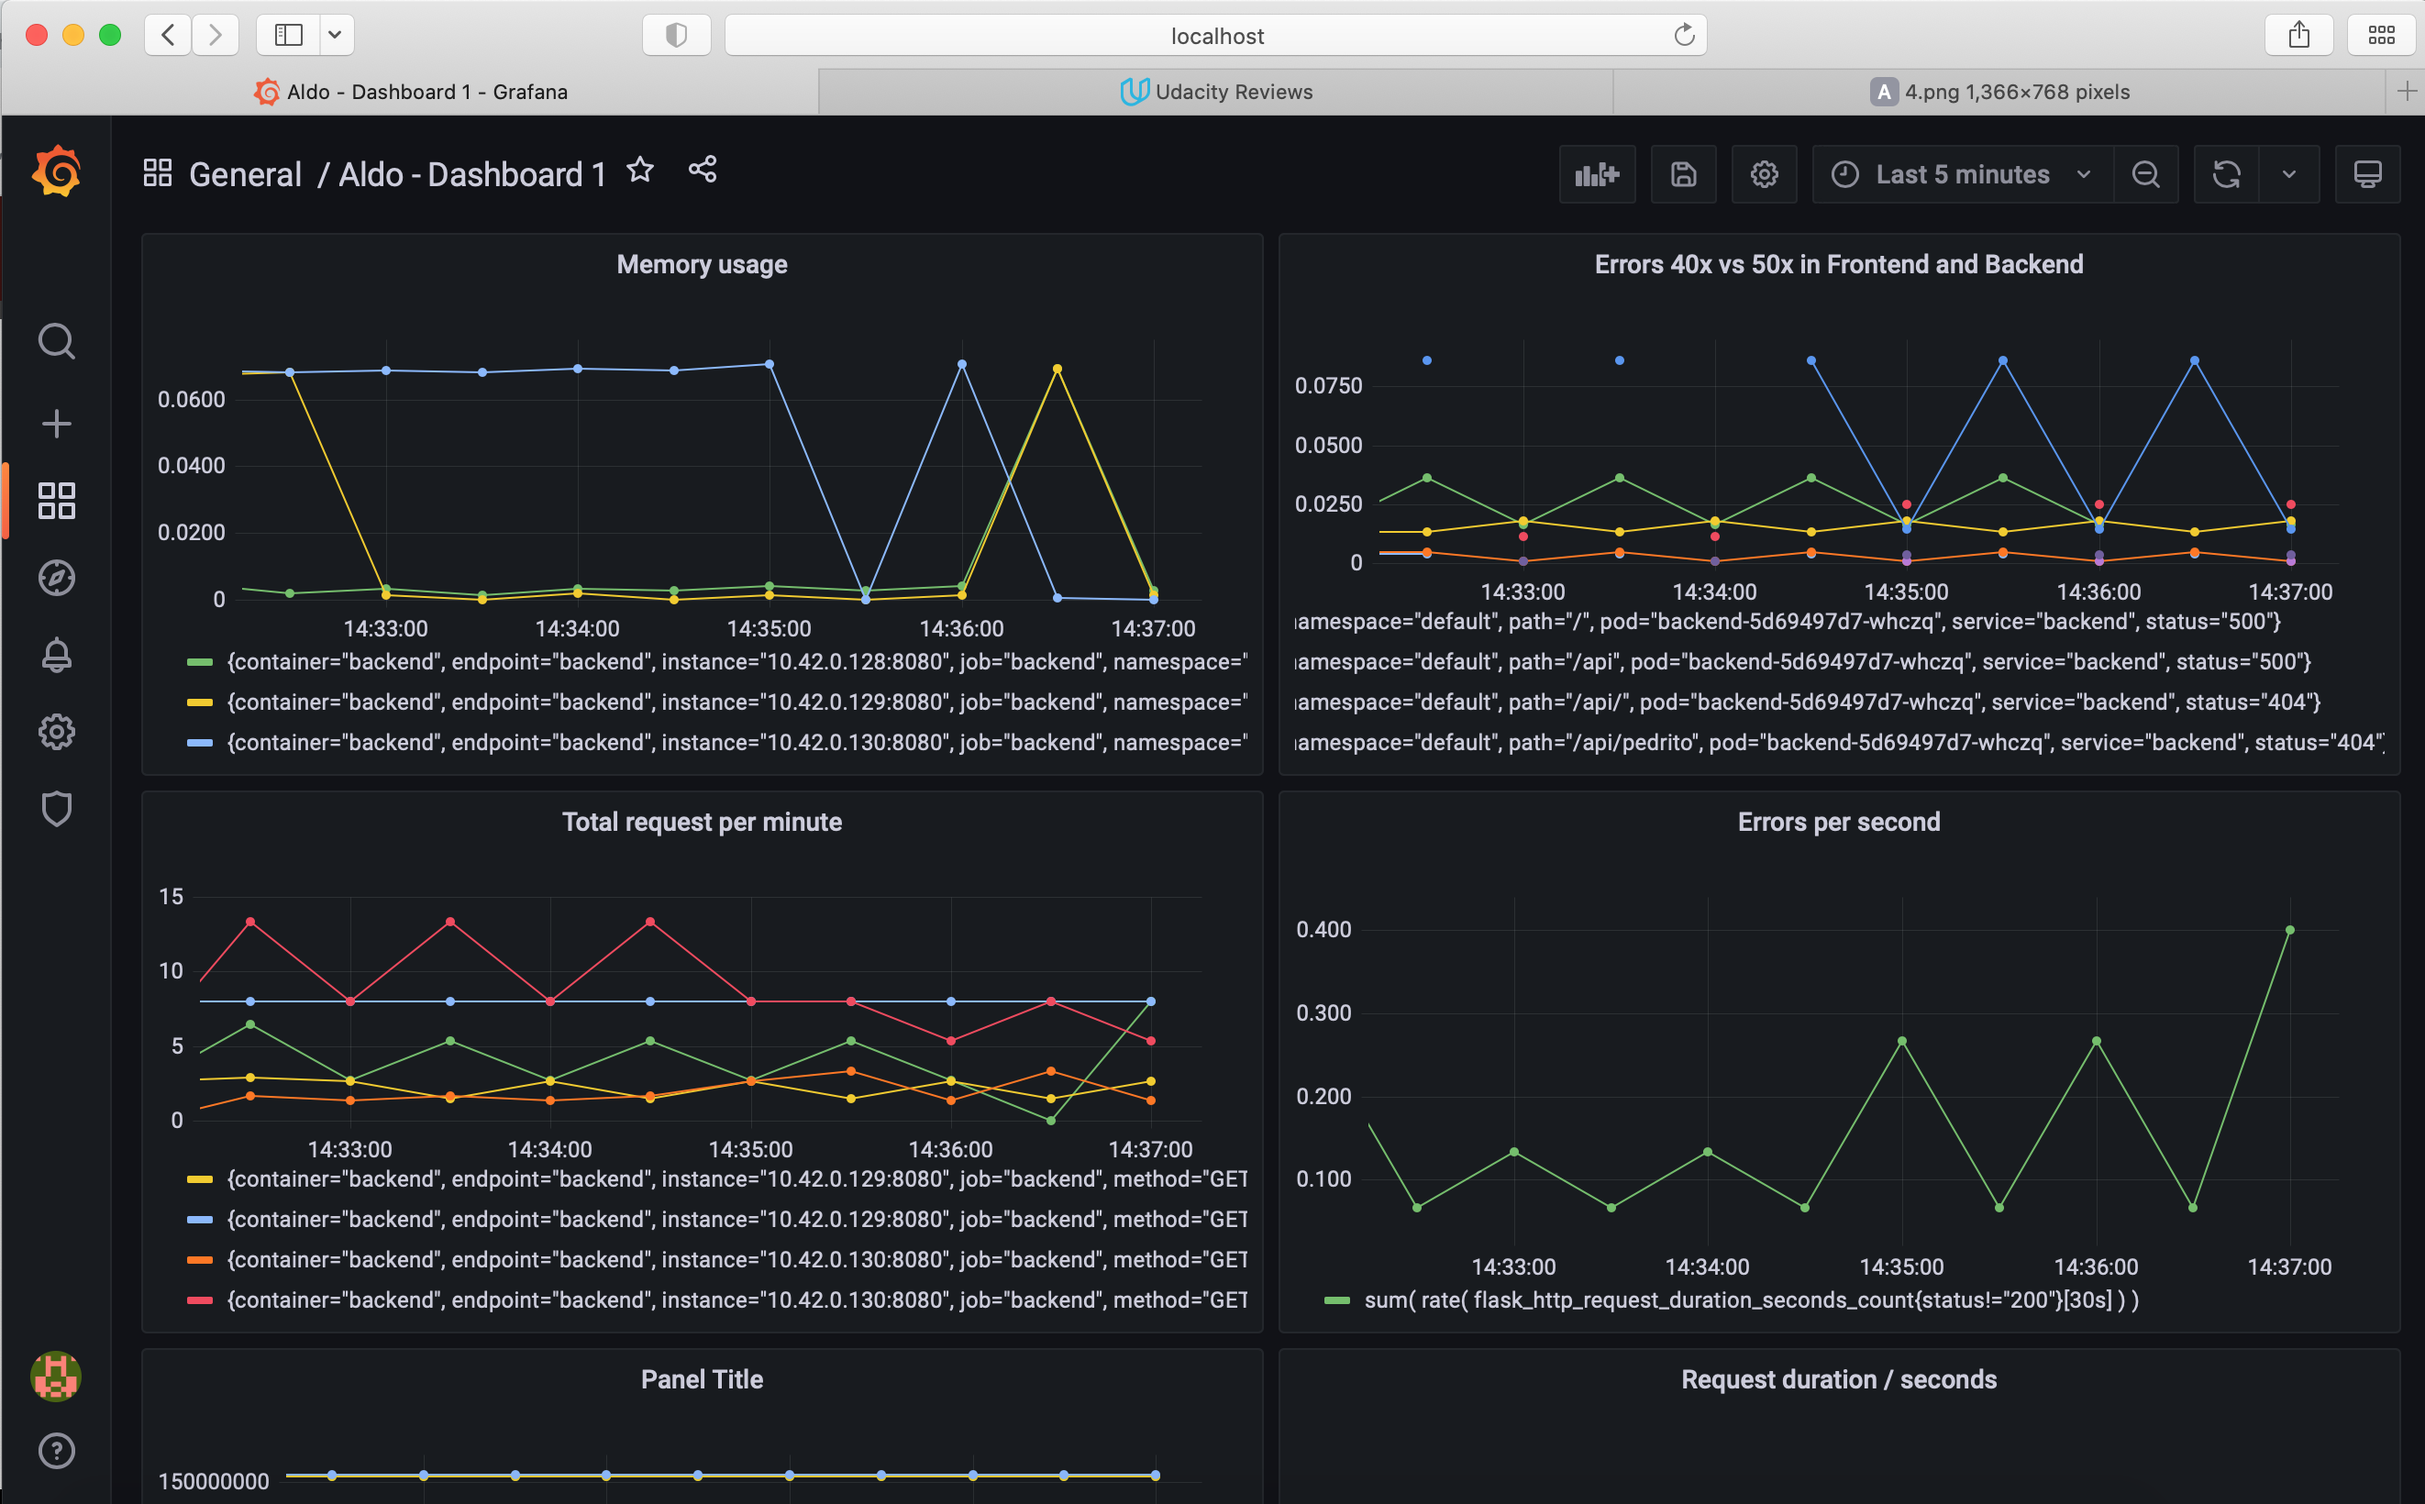
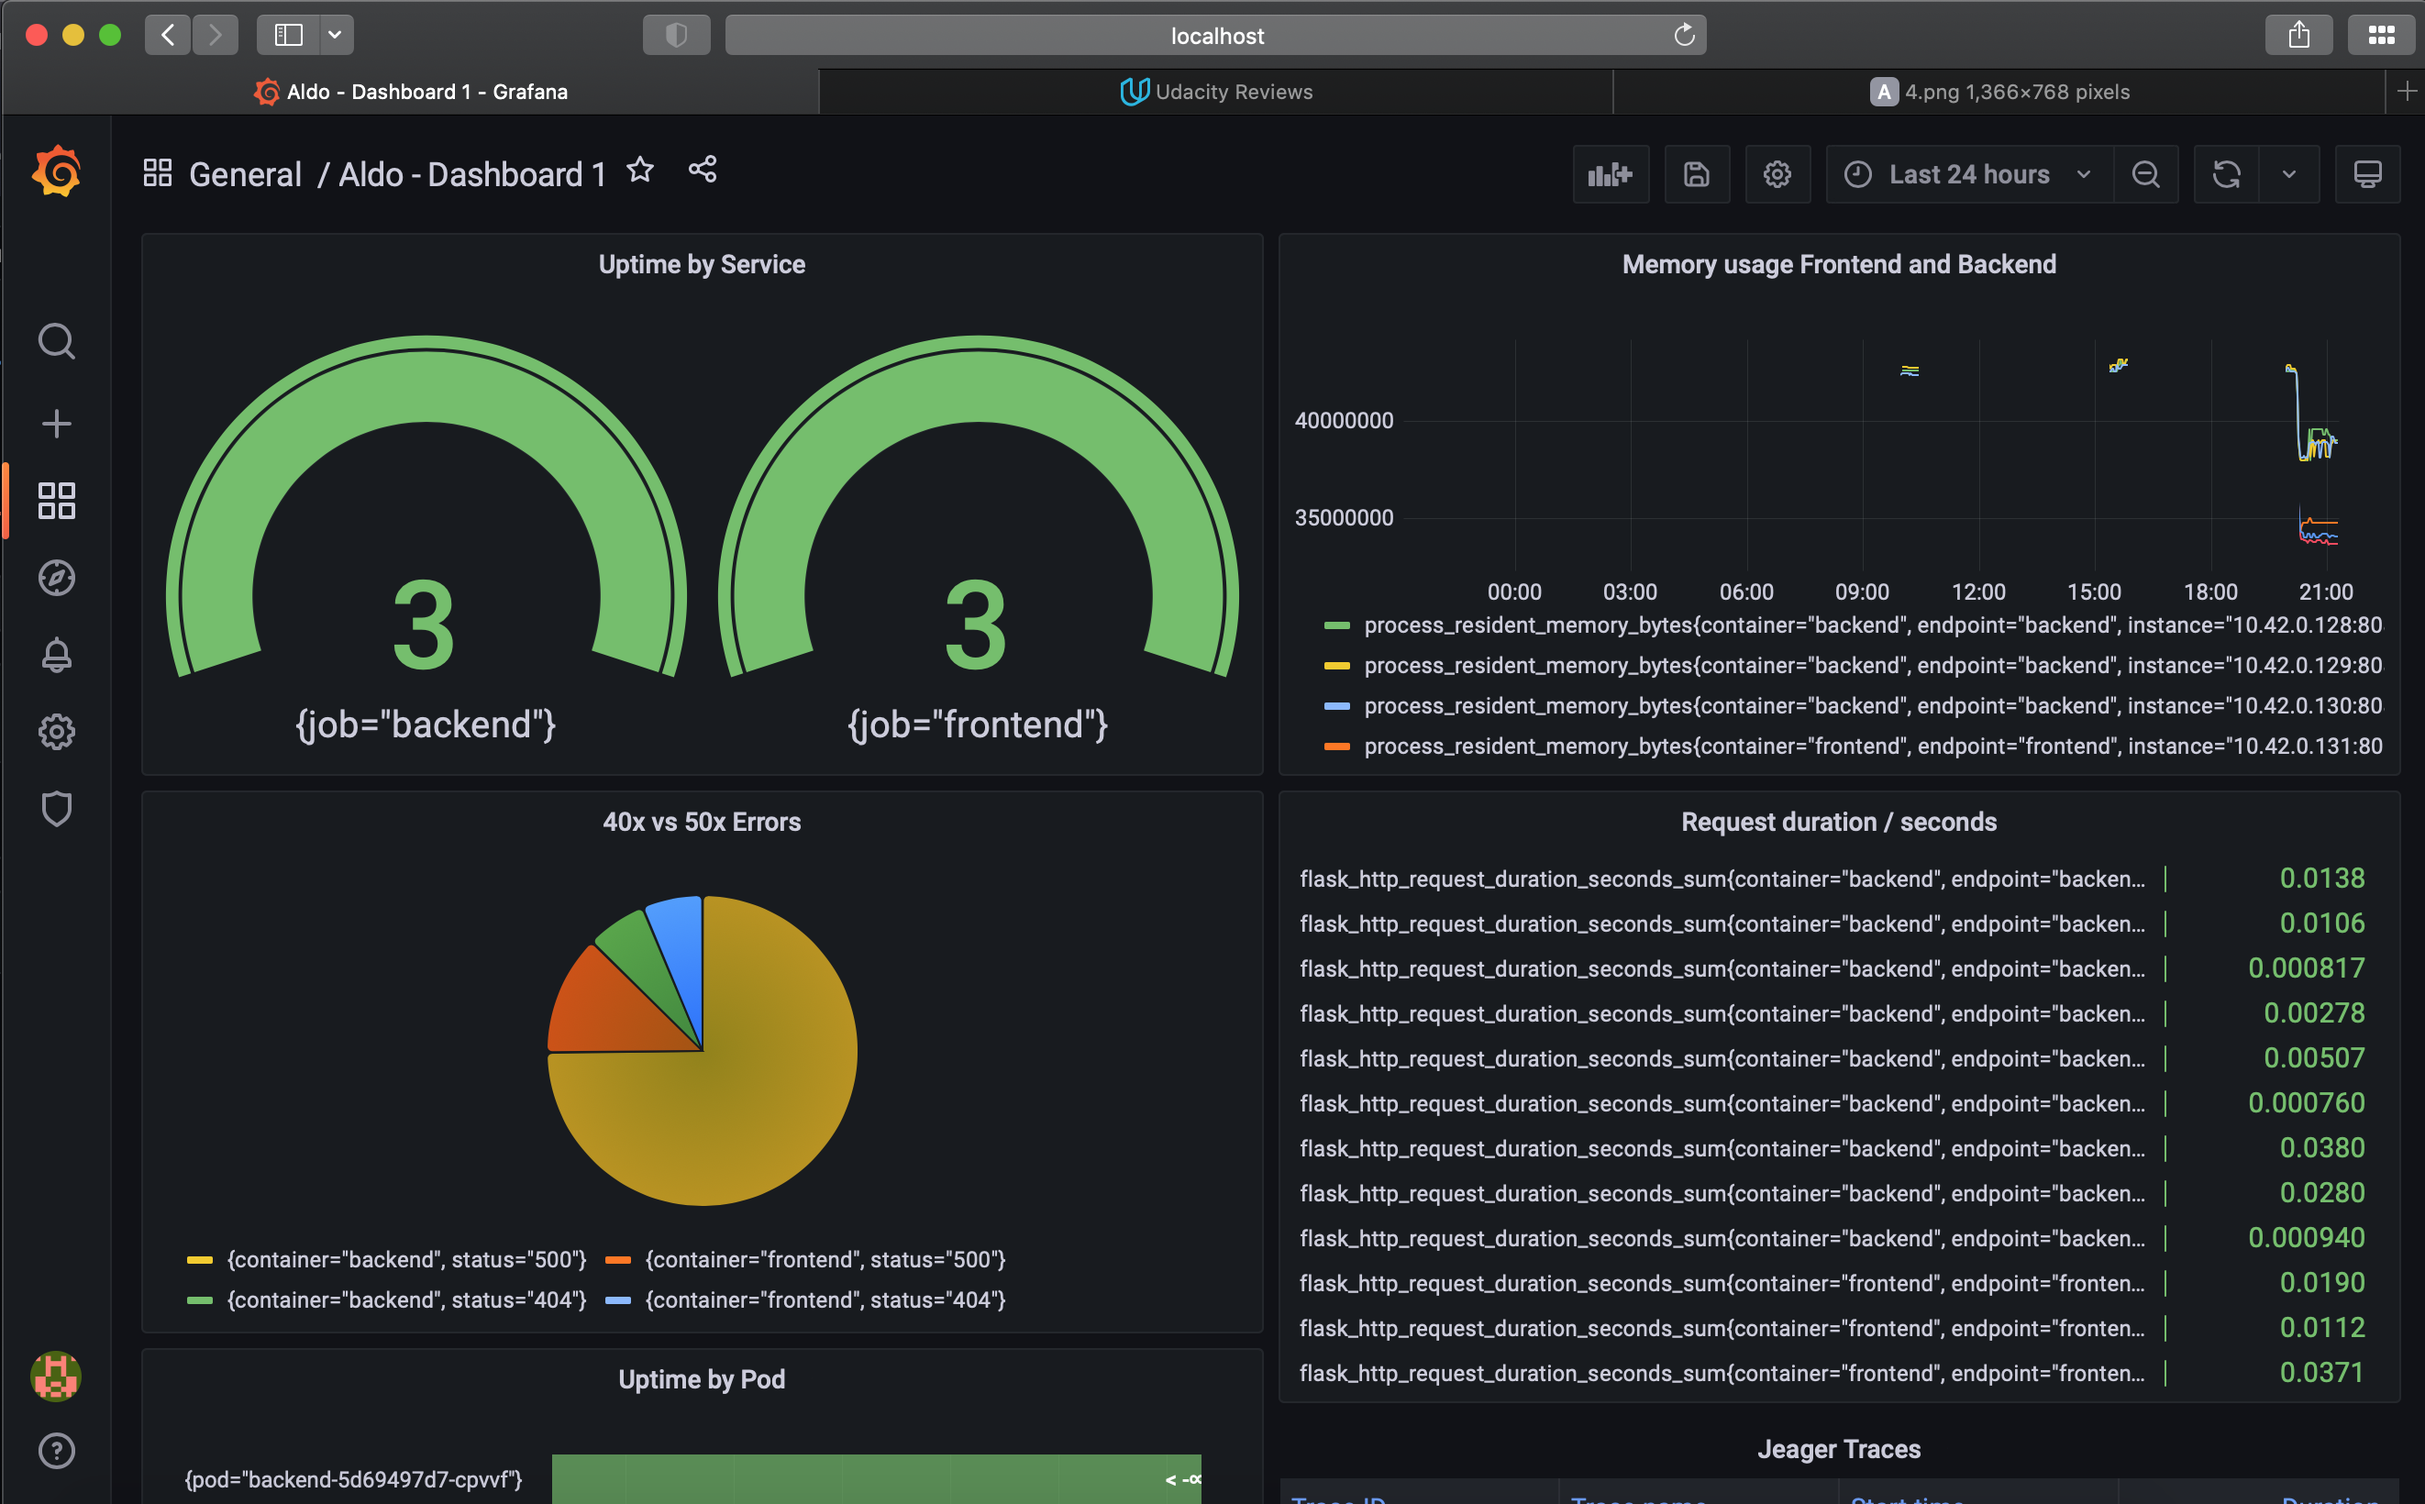
Ready for re-submission

diff --git a/Project_Starter_Files-Building_a_Metrics_Dashboard/README.md b/Project_Starter_Files-Building_a_Metrics_Dashboard/README.md
@@ -88,16 +88,26 @@ TROUBLE TICKET
 ## Building KPIs for our plan
 *TODO*: Now that we have our SLIs and SLOs, create a list of 2-3 KPIs to accurately measure these metrics as well as a description of why those KPIs were chosen. We will make a dashboard for this, but first write them down here.
 
-1. Latency:
-- 90 percentile of request durations are under 100ms
-- Average response time are under 100ms
-2. Uptime:
-- Service uptime of at least 99.95%
-3. Errors:
-- Number of failed responses stays below 0.2%
+1. SLI 1 (Latency): System should be able to handle 10 transaction per second
+   - KPI 1: A Flask request should be completed in 100ms or less 
+   - This KPI was choose as the system is highly transactional and transactions are time sensitive
+2. SLI 2 (Uptime): Service uptime of at least 99.1%
+   - KPI 2: Up time per POD is >= to 99.1%
+   - This KPI was choosen as the system is mission critcal and cannot afford downtime nor service degradation
+
 
 ## Final Dashboard
 *TODO*: Create a Dashboard containing graphs that capture all the metrics of your KPIs and adequately representing your SLIs and SLOs. Include a screenshot of the dashboard here, and write a text description of what graphs are represented in the dashboard.  
 
-This i my final dashboard:
+This is my final dashboard, the meaning of the metrics displayed is as follows
+
+- **Uptime by service:** This measures the uptime (100% in the gauge) and the number 3 means each service is has 3 pods running
+
+- **Memory usage by Frontend and Backend:** Shows the memory usage in bytes for each container
+
+- **40x vs 50x errors:** The pie chart shows the HTTP status for each endpoint (frontend and backend) based on the tests generated with the curl command
+  
+- **Request durations in seconds:** Shows the requests duration in seconds
+
+
 ![Alt text](./screenshots/40x_50x.png "grafana 40x vs 50x")
